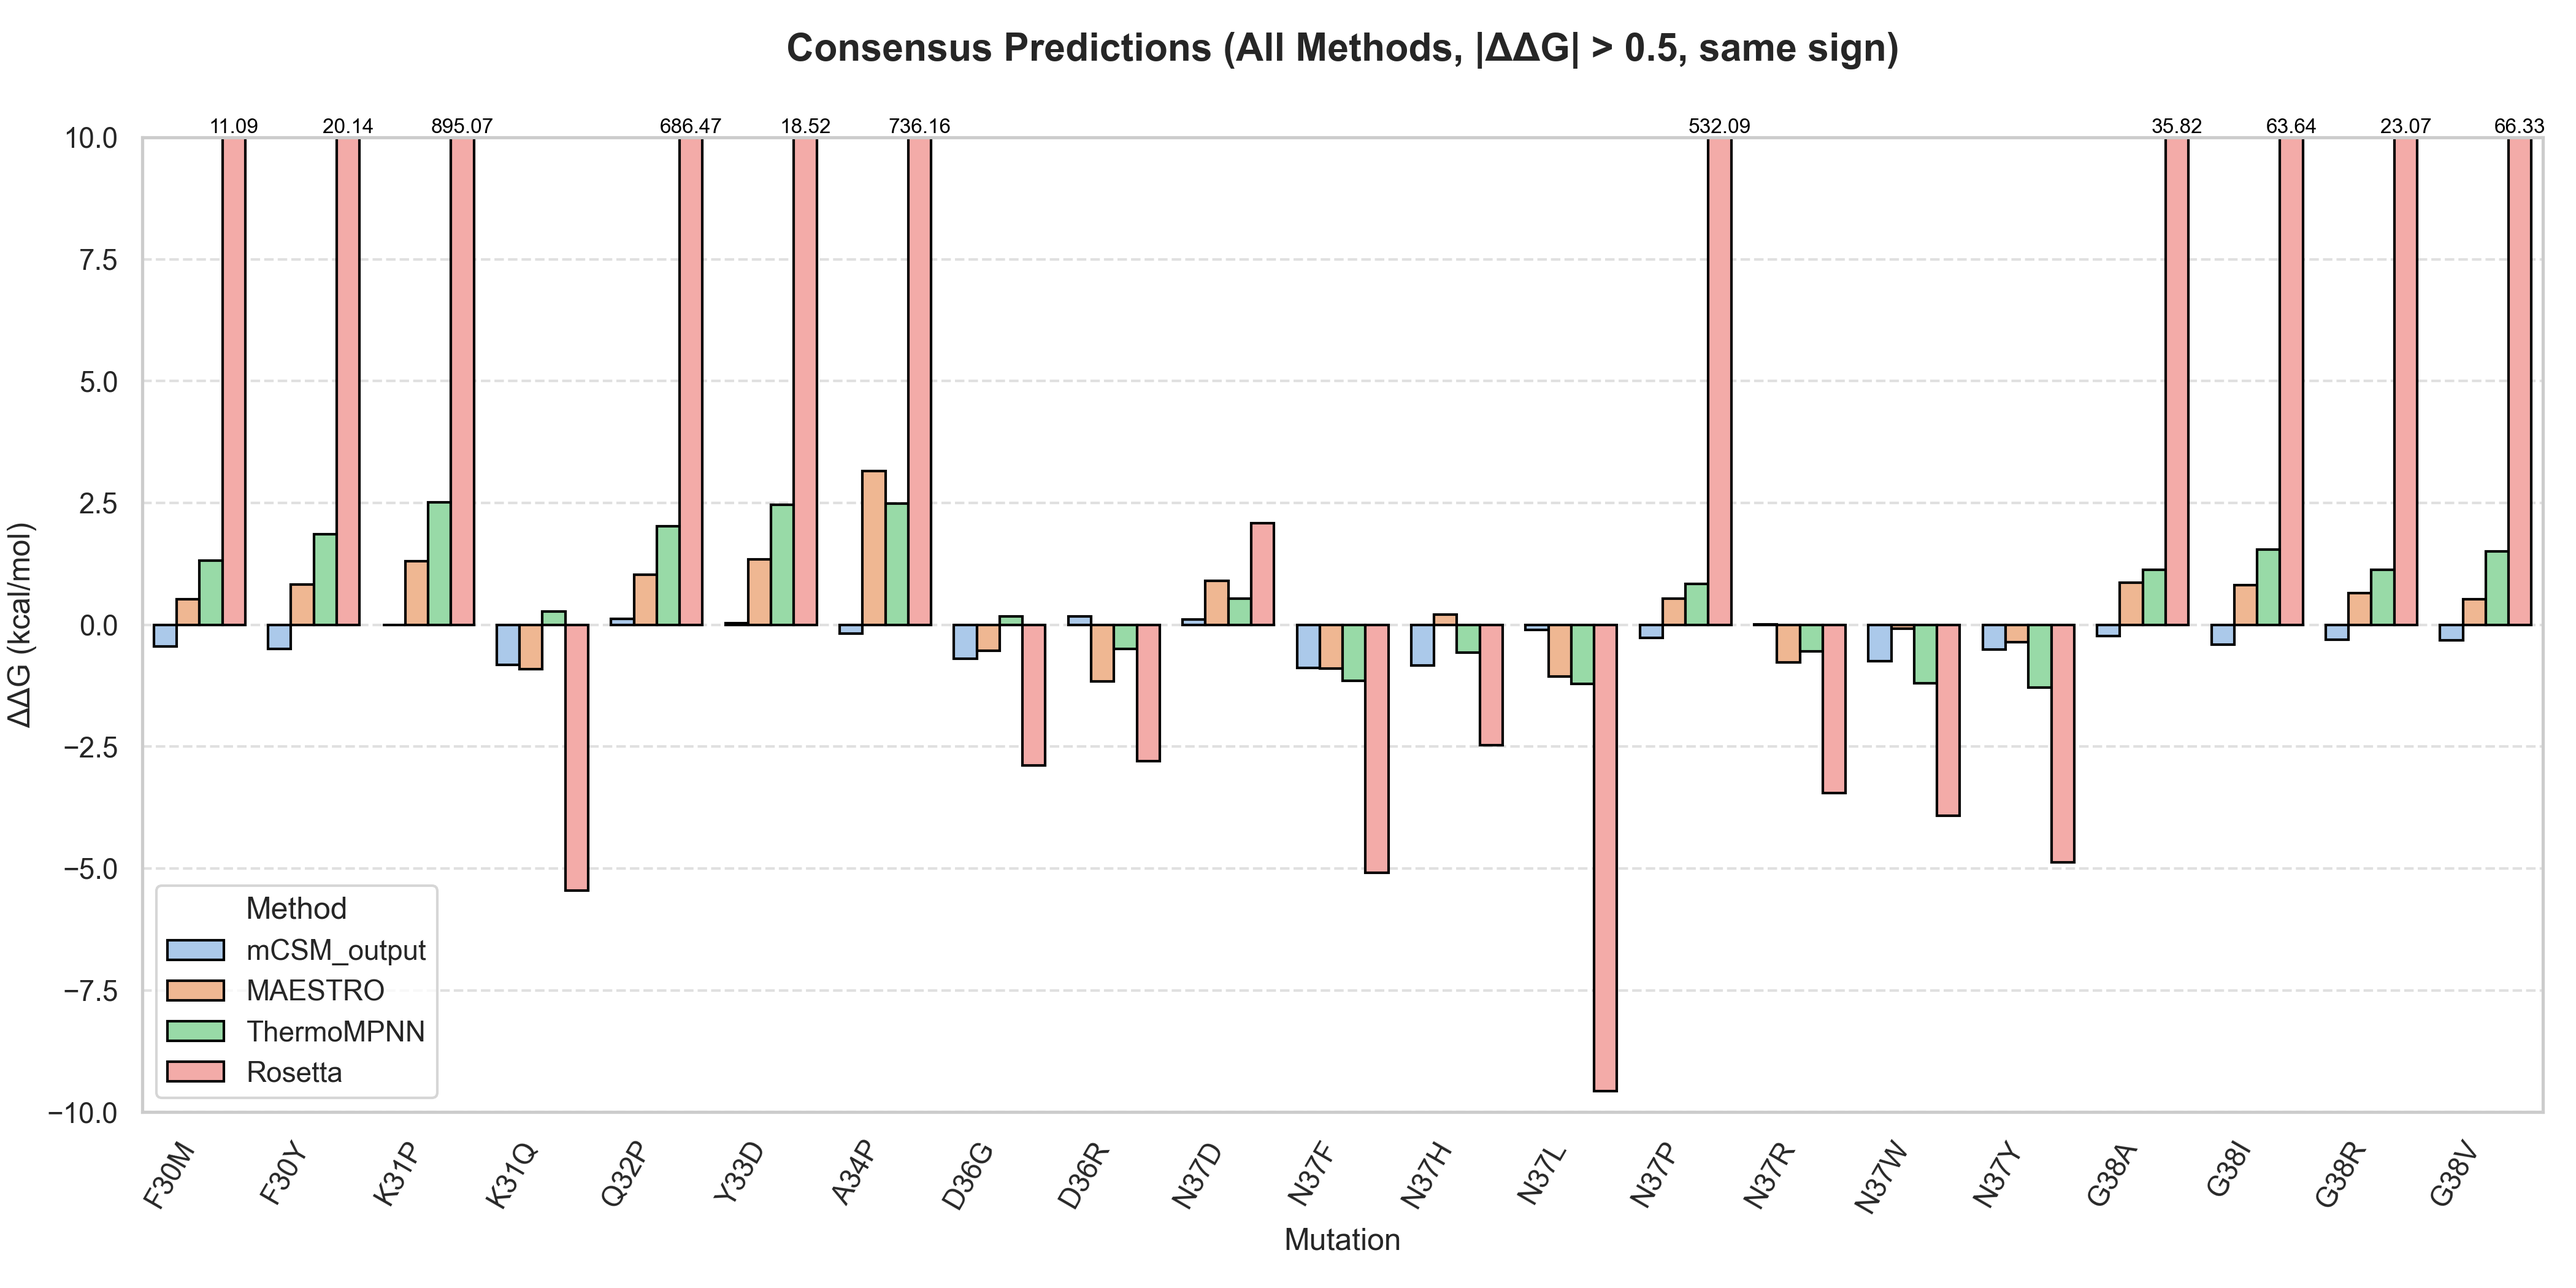
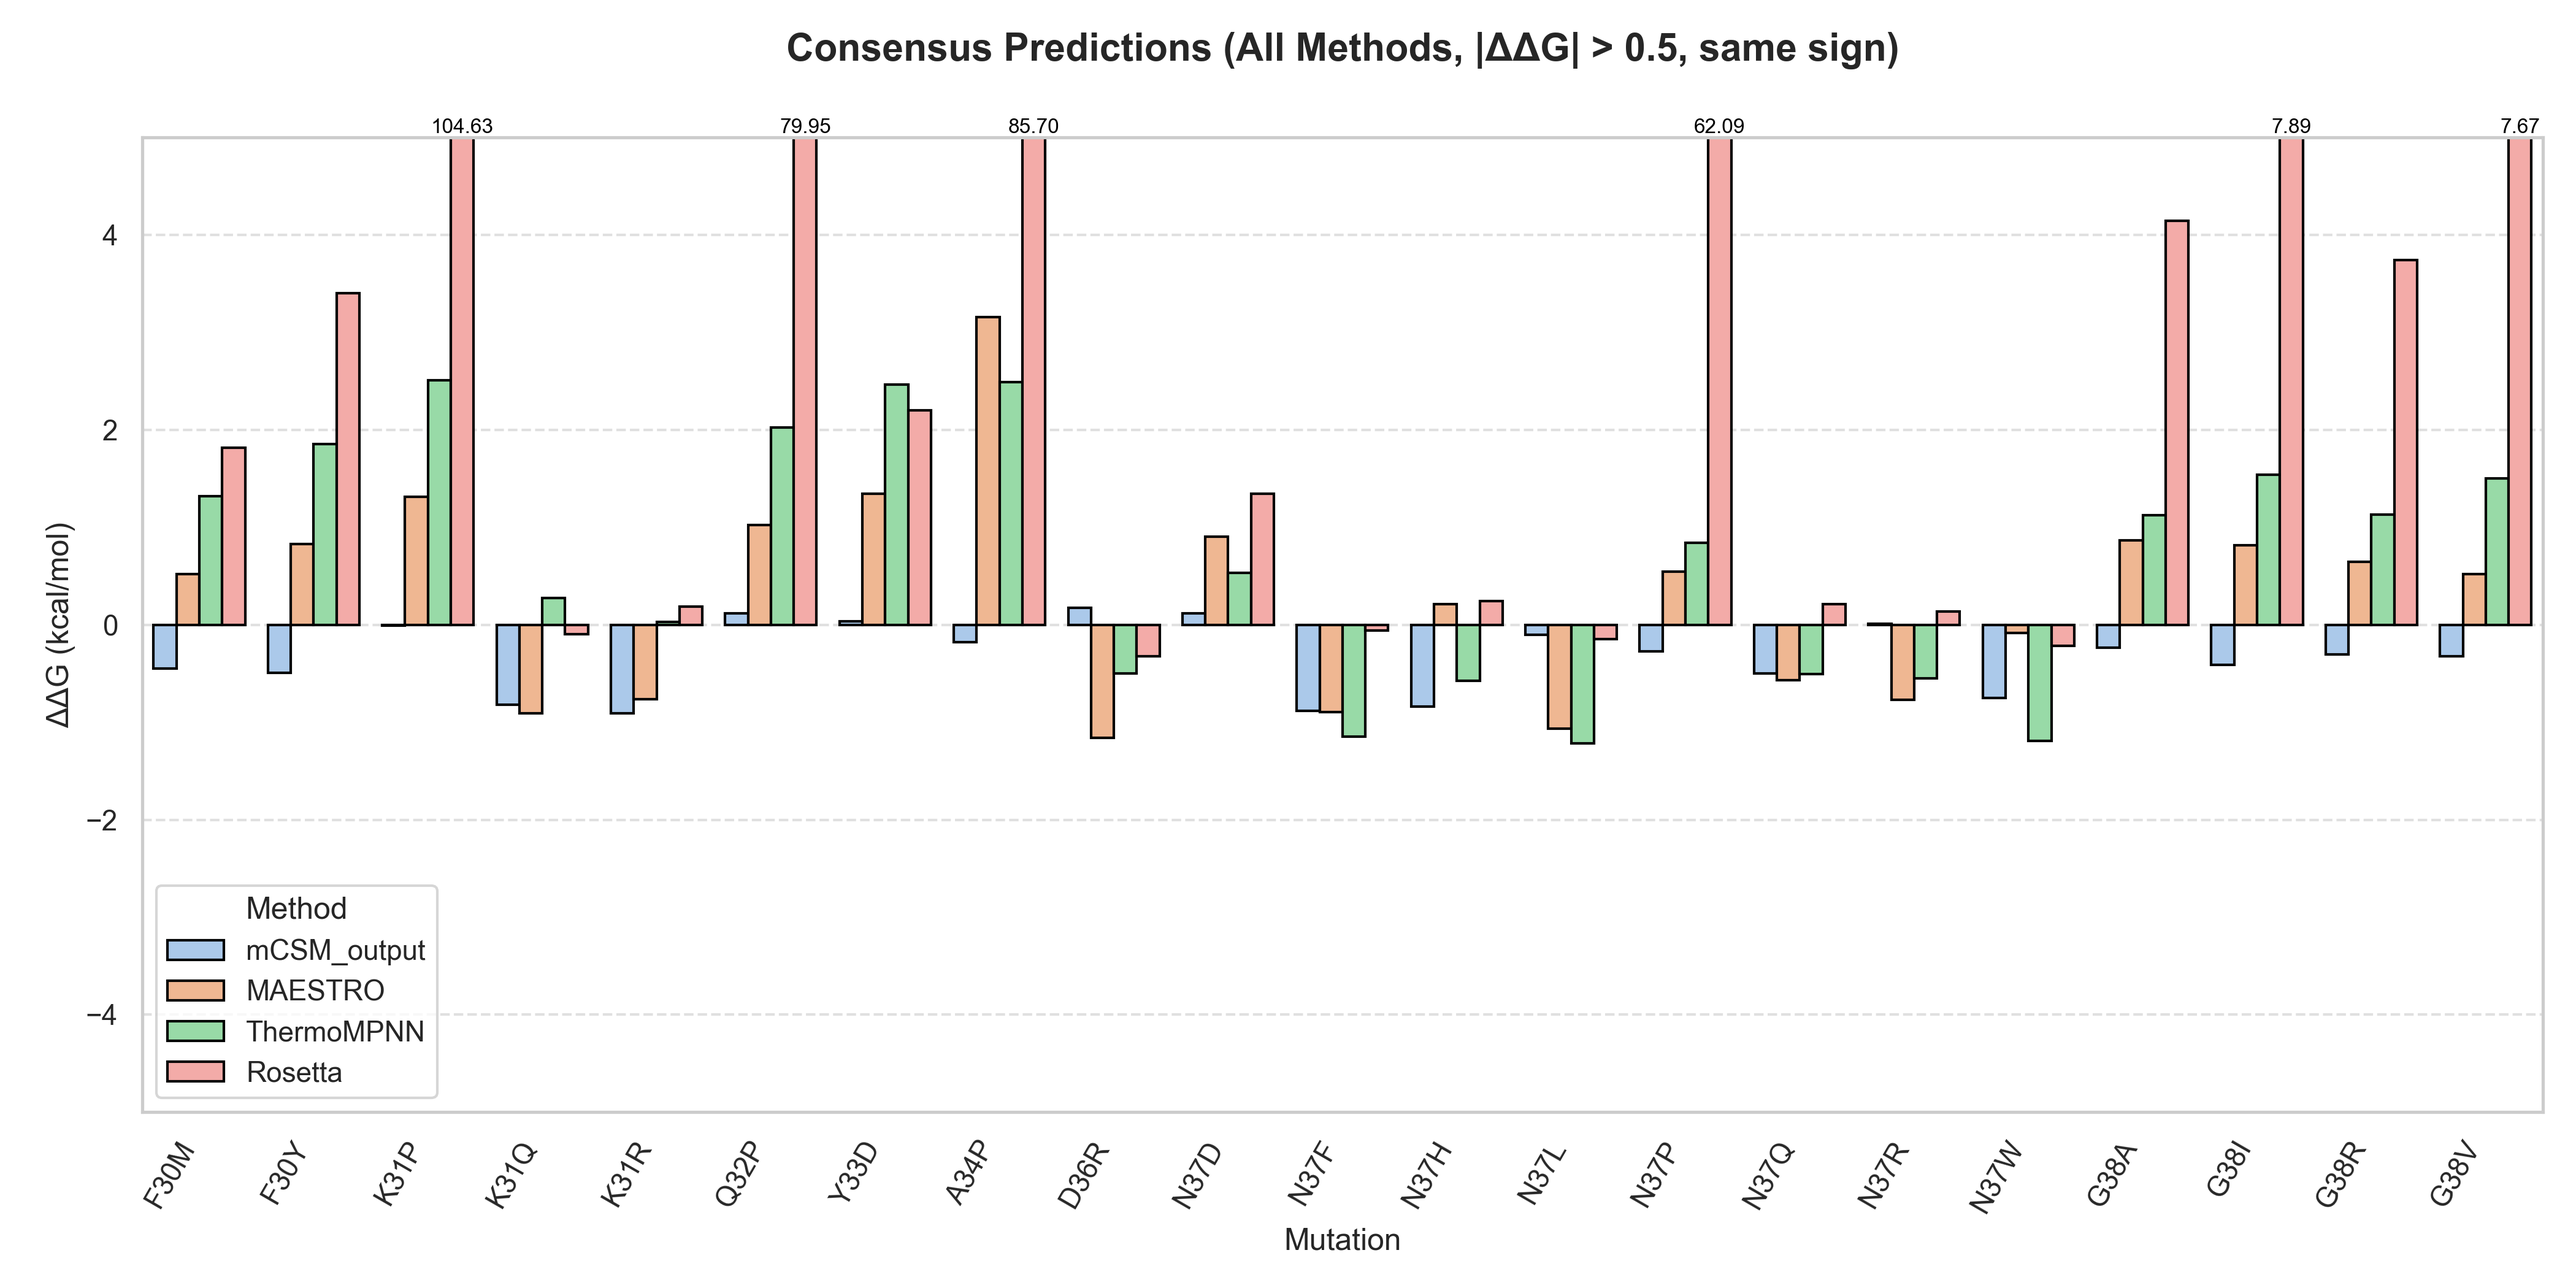
updating README

diff --git a/main.py b/main.py
@@ -473,7 +473,7 @@ def add_rosetta_ddg_to_average(rosetta_output_dir, average_csv_path):
         print(f"❌ ddg_predictions.out not found in {rosetta_output_dir}")
         return None
 
-    # Parse ddg_predictions.out
+    # Parse ddg_predictions.out and use scaling factor
     rosetta_ddg = {}
     with open(rosetta_file, "r") as f:
         for line in f:
@@ -486,7 +486,7 @@ def add_rosetta_ddg_to_average(rosetta_output_dir, average_csv_path):
                     wt, pos, mut = match.groups()
                     mutation_key = f"{wt}{pos}.A{{{mut}}}"
                     try:
-                        rosetta_ddg[mutation_key] = float(ddg_total) * 2.94
+                        rosetta_ddg[mutation_key] = float(ddg_total) / 2.94
                     except ValueError:
                         continue
 
@@ -581,14 +581,14 @@ def plot_all_with_rosetta(average_with_rosetta_path):
     plt.tight_layout()
 
     # Set axis limits
-    plt.ylim(-10, 10)
+    plt.ylim(-5, 5)
 
     # Annotate values above bars if outside axis limits
     for i, bar in enumerate(ax.patches):
         height = bar.get_height()
-        if height > 10 or height < -10:
+        if height > 5 or height < -5:
             x = bar.get_x() + bar.get_width() / 2
-            y = 10 if height > 10 else -10
+            y = 5 if height > 5 else -5
             ax.annotate(f"{height:.2f}", (x, y), ha='center', va='bottom' if height > 0 else 'top', fontsize=8, color='black', rotation=0)
 
     save_path = os.path.join(AVERAGE_DIR, "Final_ddG_with_rosetta.png")
